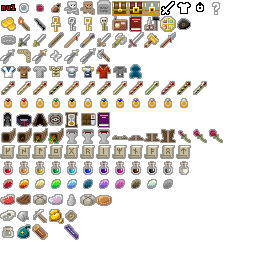
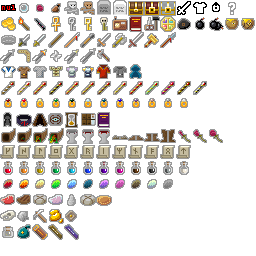
Merging 1.7.5 Source: item assets changes (plus placeholder for bandolier) + included grave sprite from donation features(simpler than keeping it out of every item sheet related commit)

Changed region(s): [[0.4375, 0.0, 1.0, 0.125], [0.1875, 0.875, 0.25, 0.9375]]

diff --git a/src/com/shatteredpixel/shatteredpixeldungeon/sprites/ItemSpriteSheet.java b/src/com/shatteredpixel/shatteredpixeldungeon/sprites/ItemSpriteSheet.java
@@ -47,14 +47,15 @@ public class ItemSpriteSheet {
     public static final int BONES			= ROW1+4;
     public static final int REMAINS         = ROW1+5;
     public static final int TOMB			= ROW1+6;
-    public static final int CHEST			= ROW1+7;
-    public static final int LOCKED_CHEST	= ROW1+8;
-    public static final int CRYSTAL_CHEST	= ROW1+9;
-    // Placeholders
-    public static final int WEAPON	= ROW1+10;
-    public static final int ARMOR	= ROW1+11;
-    public static final int RING	= ROW1+12;
-    public static final int SMTH	= ROW1+13;
+	public static final int GRAVE			= ROW1+7;
+	public static final int CHEST			= ROW1+8;
+	public static final int LOCKED_CHEST	= ROW1+9;
+	public static final int CRYSTAL_CHEST	= ROW1+10;
+	// Placeholders
+	public static final int WEAPON	= ROW1+11;
+	public static final int ARMOR	= ROW1+12;
+	public static final int RING	= ROW1+13;
+	public static final int SMTH	= ROW1+14;
 
     //Row Two: Miscellaneous single use items
     public static final int GOLD	    = ROW2+0;
